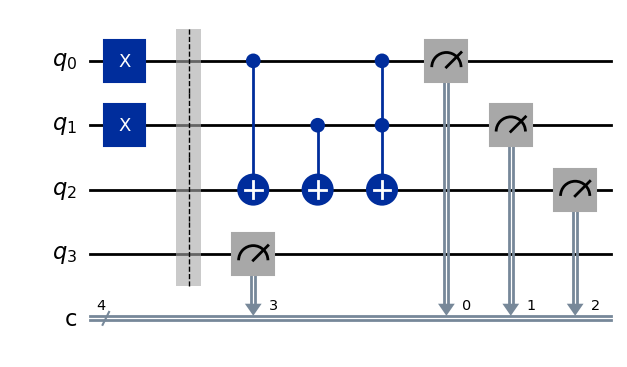
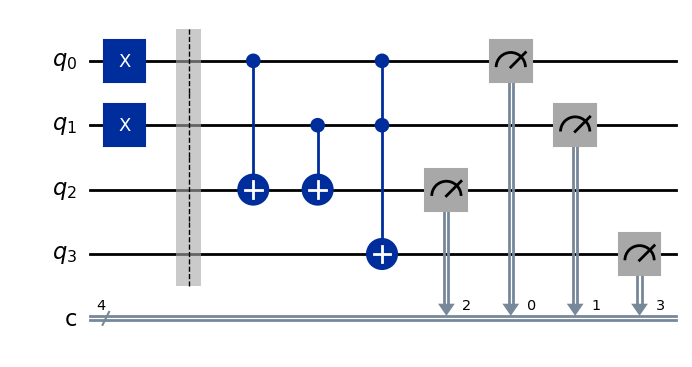
edit Quantum Computing Basic Folder

diff --git a/Quantum_Computing/Basic/Half_Adder2.py b/Quantum_Computing/Basic/Half_Adder2.py
@@ -5,7 +5,7 @@ def half_adder(n):
   circuit = QuantumCircuit(qr)
   circuit.cx(qr[0], qr[2])
   circuit.cx(qr[1], qr[2])
-  circuit.ccx(qr[0], qr[1], qr[2])
+  circuit.ccx(qr[0], qr[1], qr[3])
   circuit.name = 'half_adder'
   return circuit
 

diff --git a/Quantum_Computing/Basic/Half_Adder3.py b/Quantum_Computing/Basic/Half_Adder3.py
@@ -5,7 +5,7 @@ def half_adder(n):
   circuit = QuantumCircuit(qr)
   circuit.cx(qr[0], qr[2])
   circuit.cx(qr[1], qr[2])
-  circuit.ccx(qr[0], qr[1], qr[2])
+  circuit.ccx(qr[0], qr[1], qr[3])
   circuit.name = 'half_adder'
   return circuit
 

diff --git a/Quantum_Computing/Basic/Half_Adder4.py b/Quantum_Computing/Basic/Half_Adder4.py
@@ -5,7 +5,7 @@ def half_adder(n):
   circuit = QuantumCircuit(qr)
   circuit.cx(qr[0], qr[2])
   circuit.cx(qr[1], qr[2])
-  circuit.ccx(qr[0], qr[1], qr[2])
+  circuit.ccx(qr[0], qr[1], qr[3])
   circuit.name = 'half_adder'
   return circuit
 

diff --git a/Quantum_Computing/Basic/Half_Adder5.py b/Quantum_Computing/Basic/Half_Adder5.py
@@ -5,7 +5,7 @@ def half_adder(n):
   circuit = QuantumCircuit(qr)
   circuit.cx(qr[0], qr[2])
   circuit.cx(qr[1], qr[2])
-  circuit.ccx(qr[0], qr[1], qr[2])
+  circuit.ccx(qr[0], qr[1], qr[3])
   circuit.name = 'half_adder'
   return circuit
 

diff --git a/Quantum_Computing/Basic/Half_Adder6.py b/Quantum_Computing/Basic/Half_Adder6.py
@@ -5,7 +5,7 @@ def half_adder(n):
   circuit = QuantumCircuit(qr)
   circuit.cx(qr[0], qr[2])
   circuit.cx(qr[1], qr[2])
-  circuit.ccx(qr[0], qr[1], qr[2])
+  circuit.ccx(qr[0], qr[1], qr[3])
   circuit.name = 'half_adder'
   return circuit
 

diff --git a/Quantum_Computing/Basic/Inverse_Circuit.py b/Quantum_Computing/Basic/Inverse_Circuit.py
@@ -5,7 +5,7 @@ def half_adder(n):
   circuit = QuantumCircuit(qr)
   circuit.cx(qr[0], qr[2])
   circuit.cx(qr[1], qr[2])
-  circuit.ccx(qr[0], qr[1], qr[2])
+  circuit.ccx(qr[0], qr[1], qr[3])
   circuit.name = 'half_adder'
   return circuit
 
